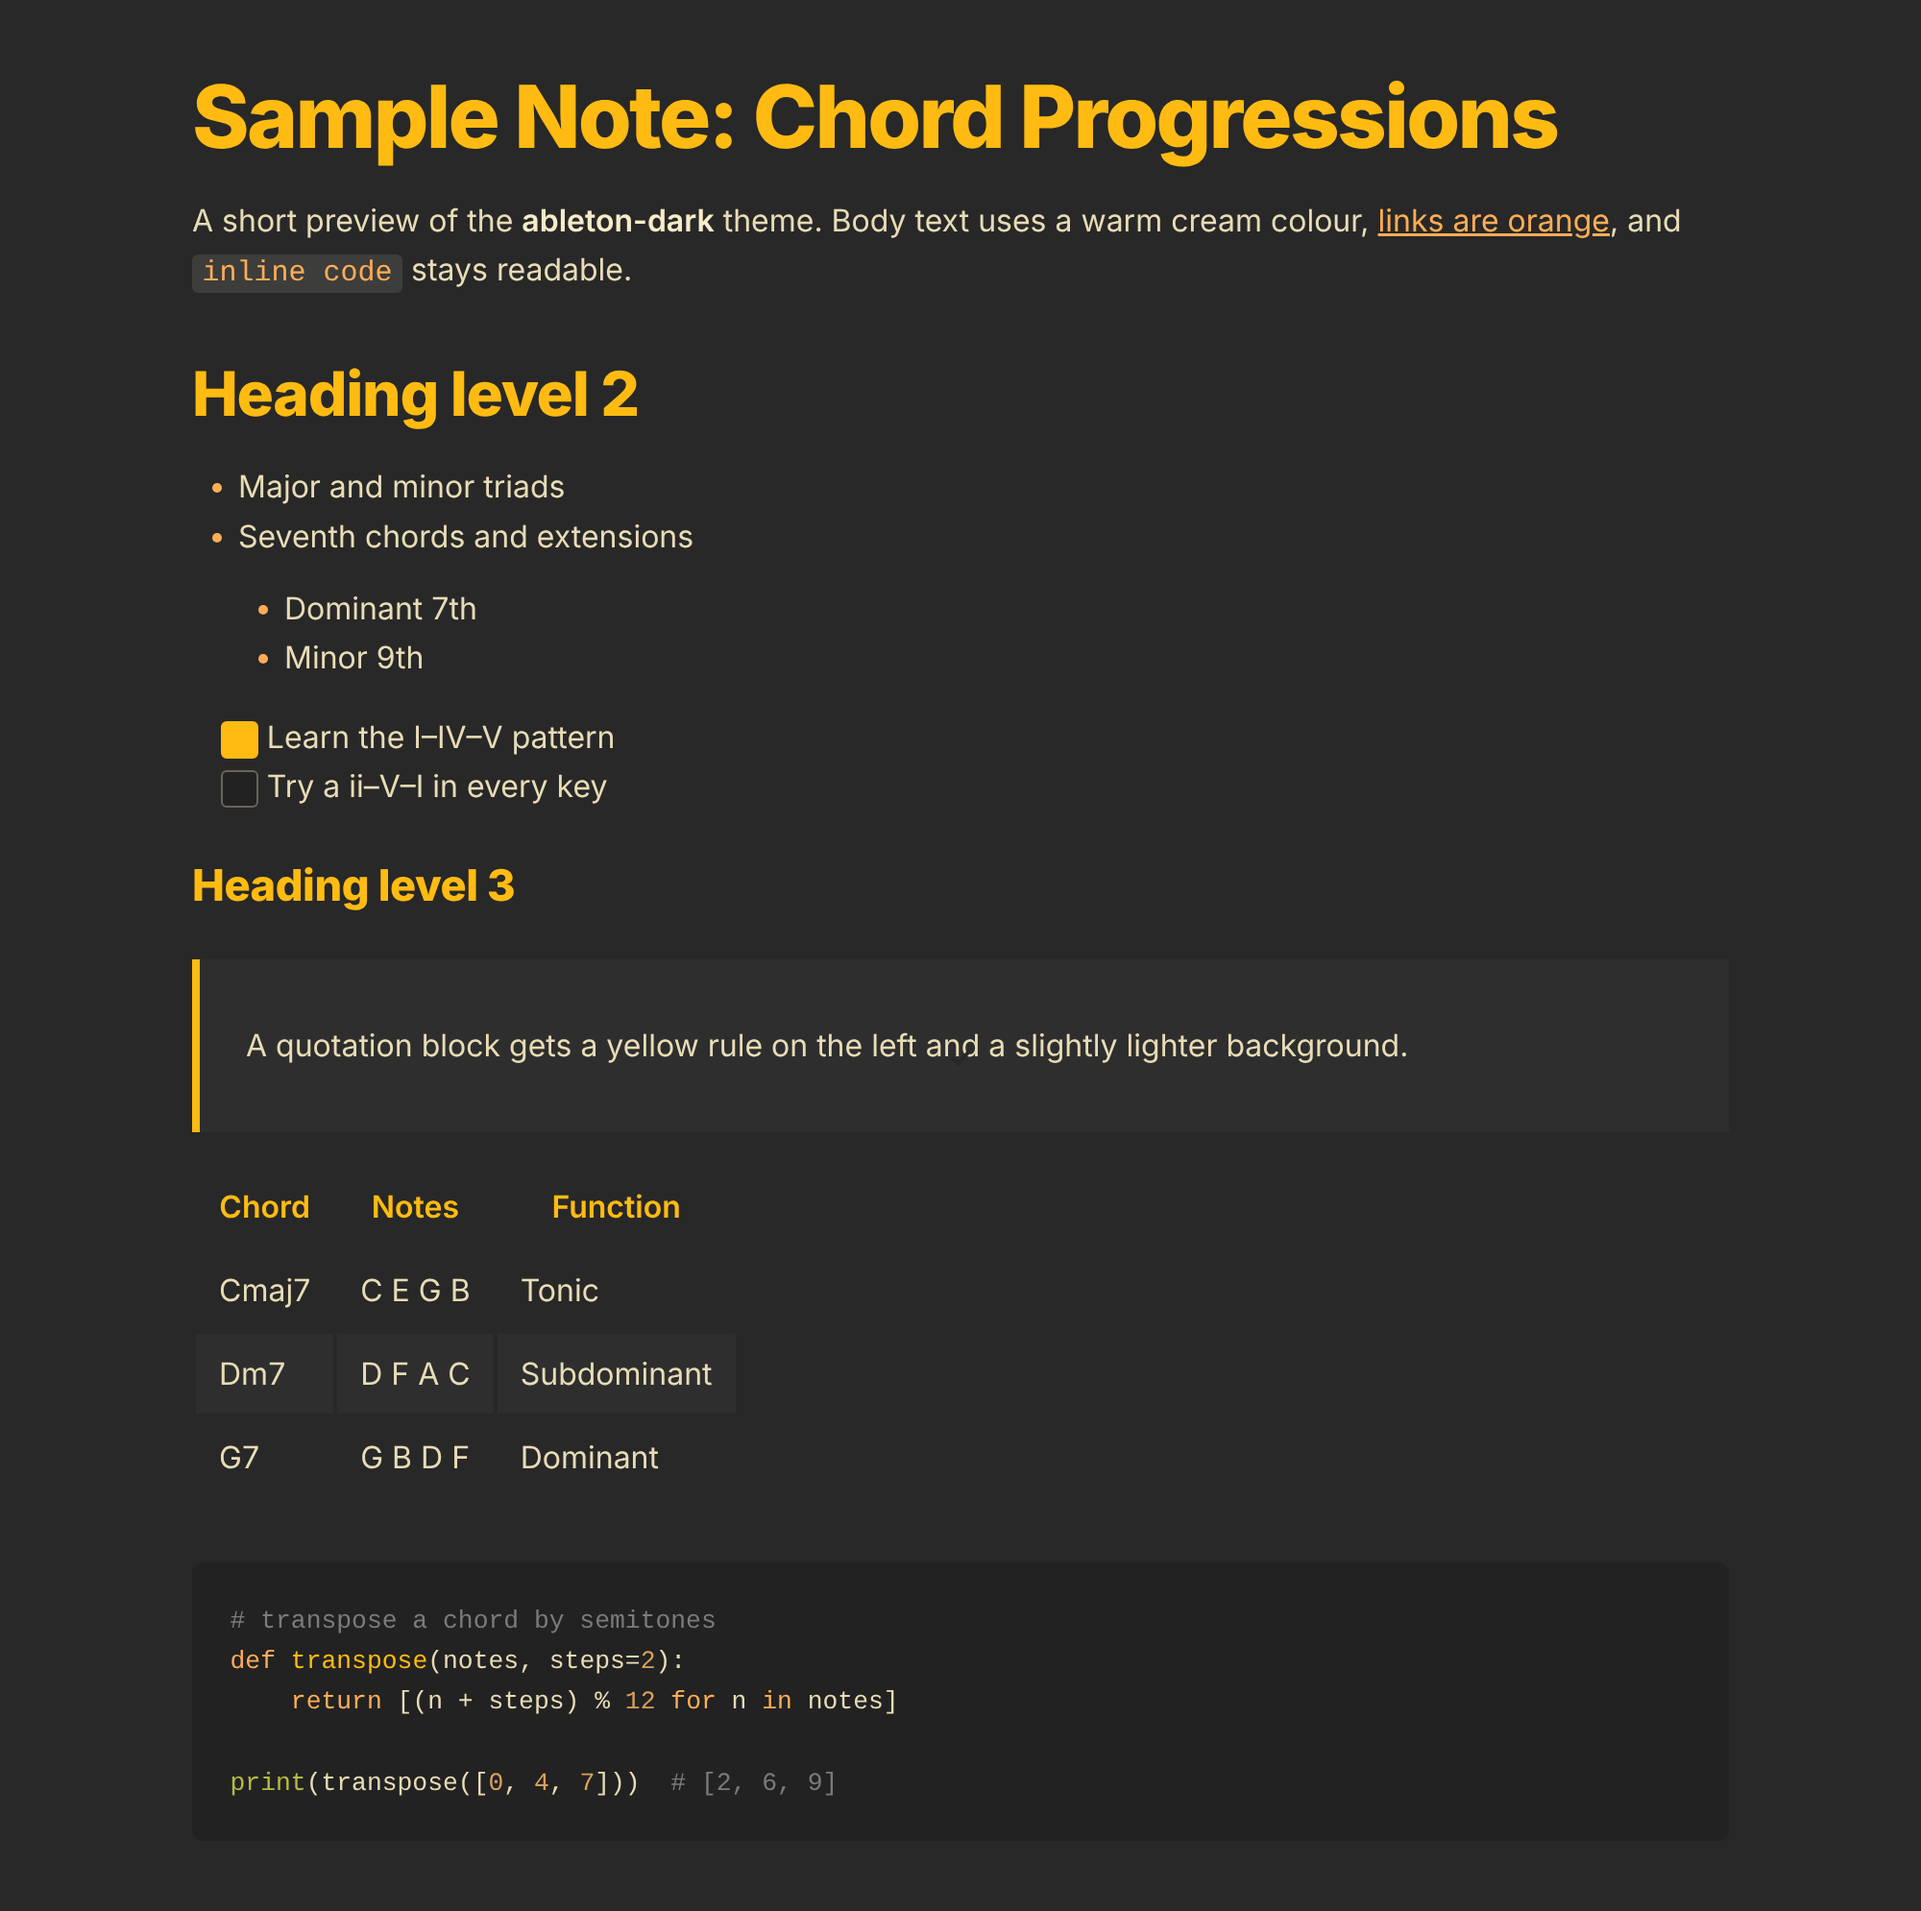
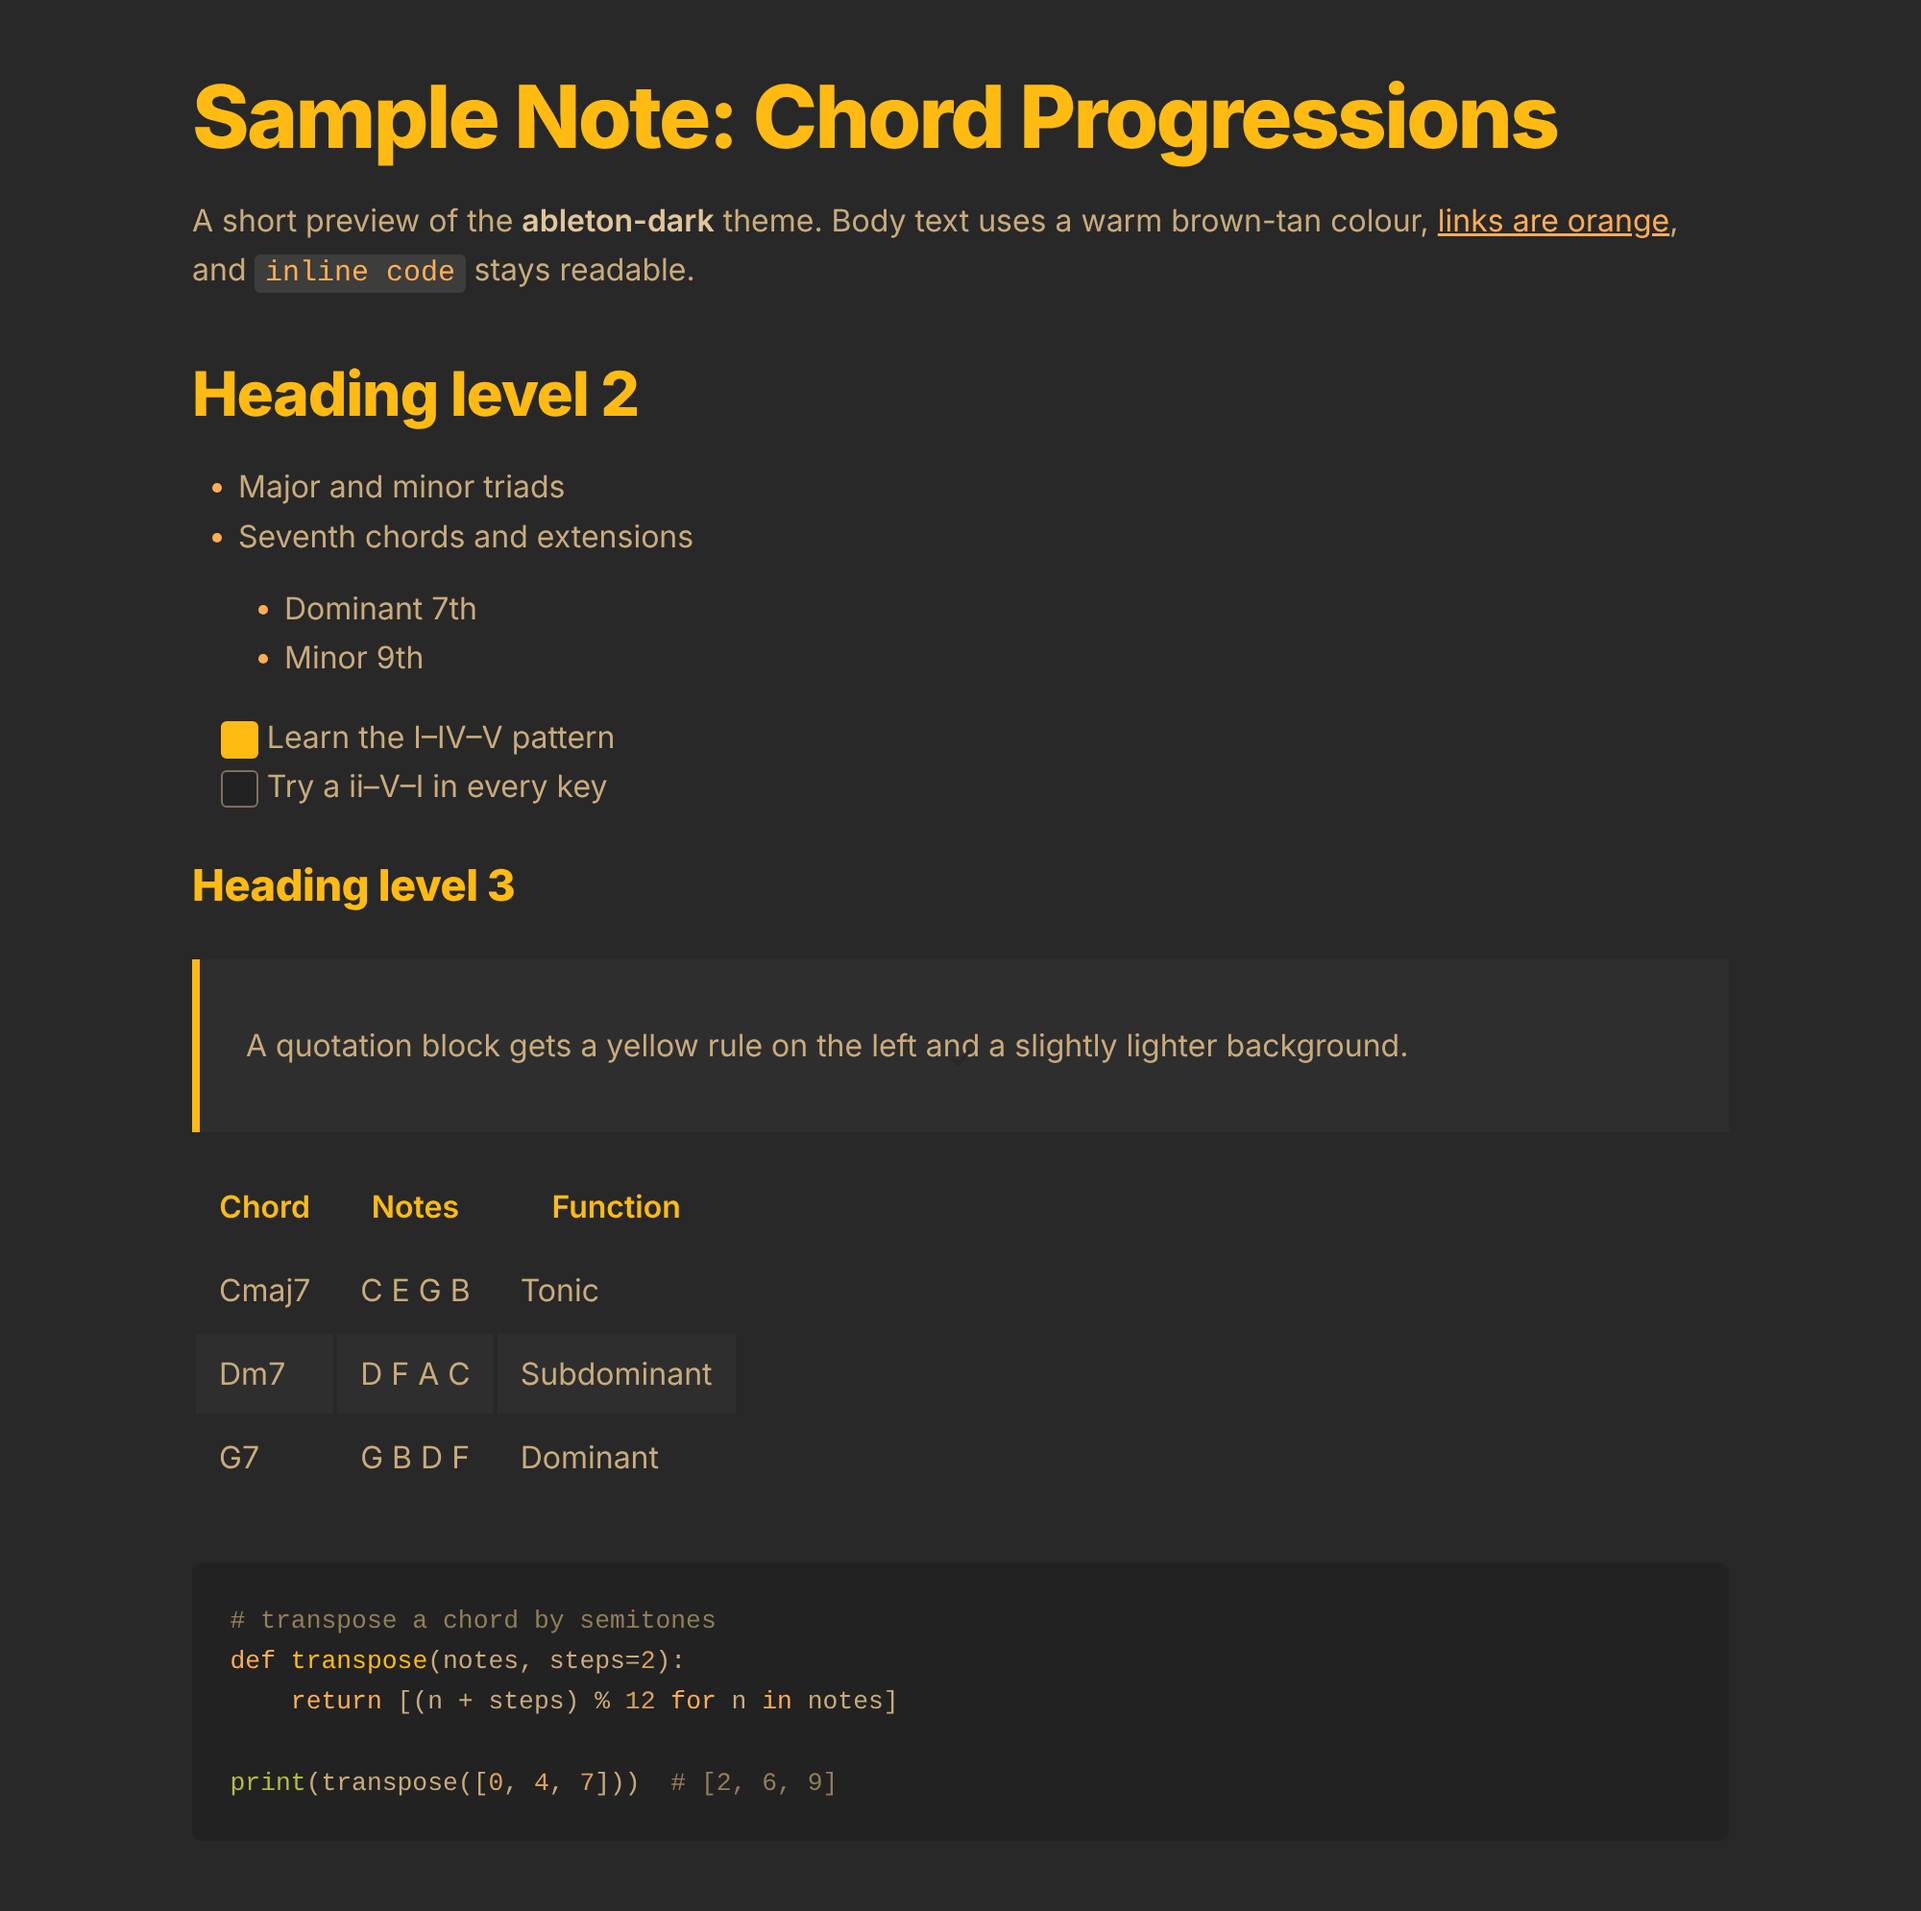
Update Ableton Dark colours: preview, thumbnail and description

diff --git a/_posts/fork/2026-11-28-Ableton-Dark.md b/_posts/fork/2026-11-28-Ableton-Dark.md
@@ -13,7 +13,7 @@ typora-copy-images-to: ../../media/theme/ableton-dark
 
 # Ableton Dark
 
-A dark Typora theme with a charcoal background, warm cream body text and a yellow/orange accent.
+A dark Typora theme with a charcoal background, warm tan body text and a yellow/orange accent.
 
 This is a colour variant of [Typora Themeable](/theme/Typora-Themeable/) (dark) by John Hildenbiddle. Only the CSS colour variables are overridden; layout and typography come from Themeable.
 
